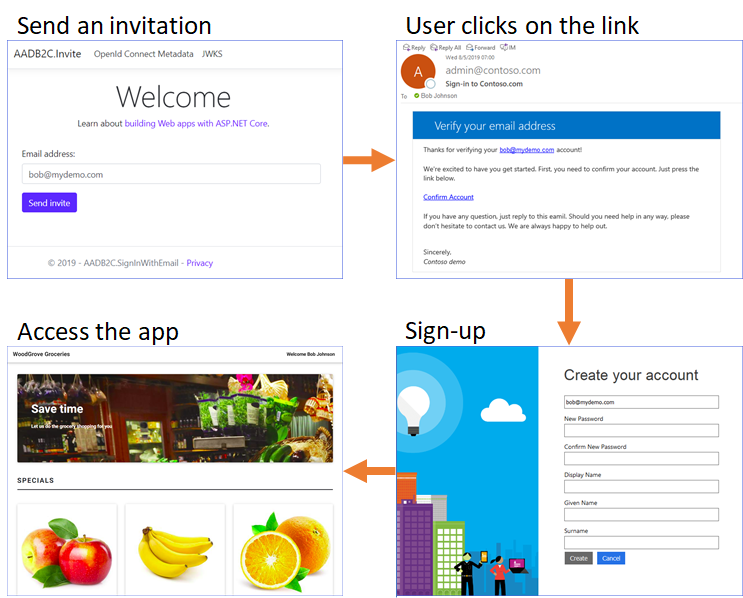
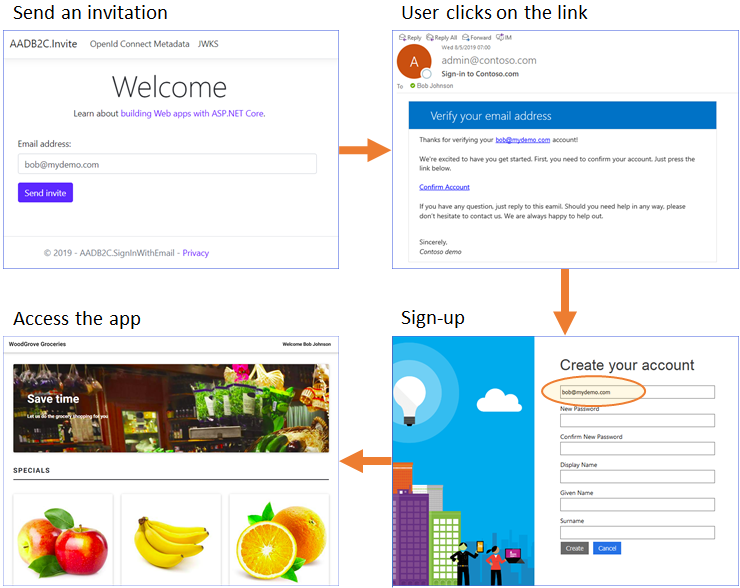
fixing the readme file

diff --git a/policies/invite/README.md b/policies/invite/README.md
@@ -2,7 +2,7 @@
 This sample console app (.Net core) demonstrates how to send sign-up email invitation. The web application sends an email to the end user with a link to sign-up policy. The link to the sign-up policy contains the email address, which is encapsulated inside a JWT token (id_token_hint). When a user clicks on that link, Azure AD B2C validates the JWT token signature, reads the information from the token, extracts the email address and ask the user to set the password, display name, surname and given name.
 
 ## User flow
-To invite a user, from the application, type the user's **email address** and click **Send invintation**. The application sends a sign-in link (with a id_token_hint). User clicks on the link, that takes to user to Azure AD B2C policy. Azure AD B2C validate the input id_token_hint, asks the user to provide the password and user data. User clicks continue, Azure AD B2C creates the account, issues an access token, and redirect the user back to the application.  
+To invite a user, from the application, type the user's **email address** and click **Send invintation**. The application sends a sign-in link (with a id_token_hint). User clicks on the link, that takes to user to Azure AD B2C policy. Azure AD B2C validate the input id_token_hint, asks the user to provide the password and user data (the email is read only). User clicks continue, Azure AD B2C creates the account, issues an access token, and redirect the user back to the application.  
 ![User flow](media/flow.png)
 
 ## Sending Application Data
